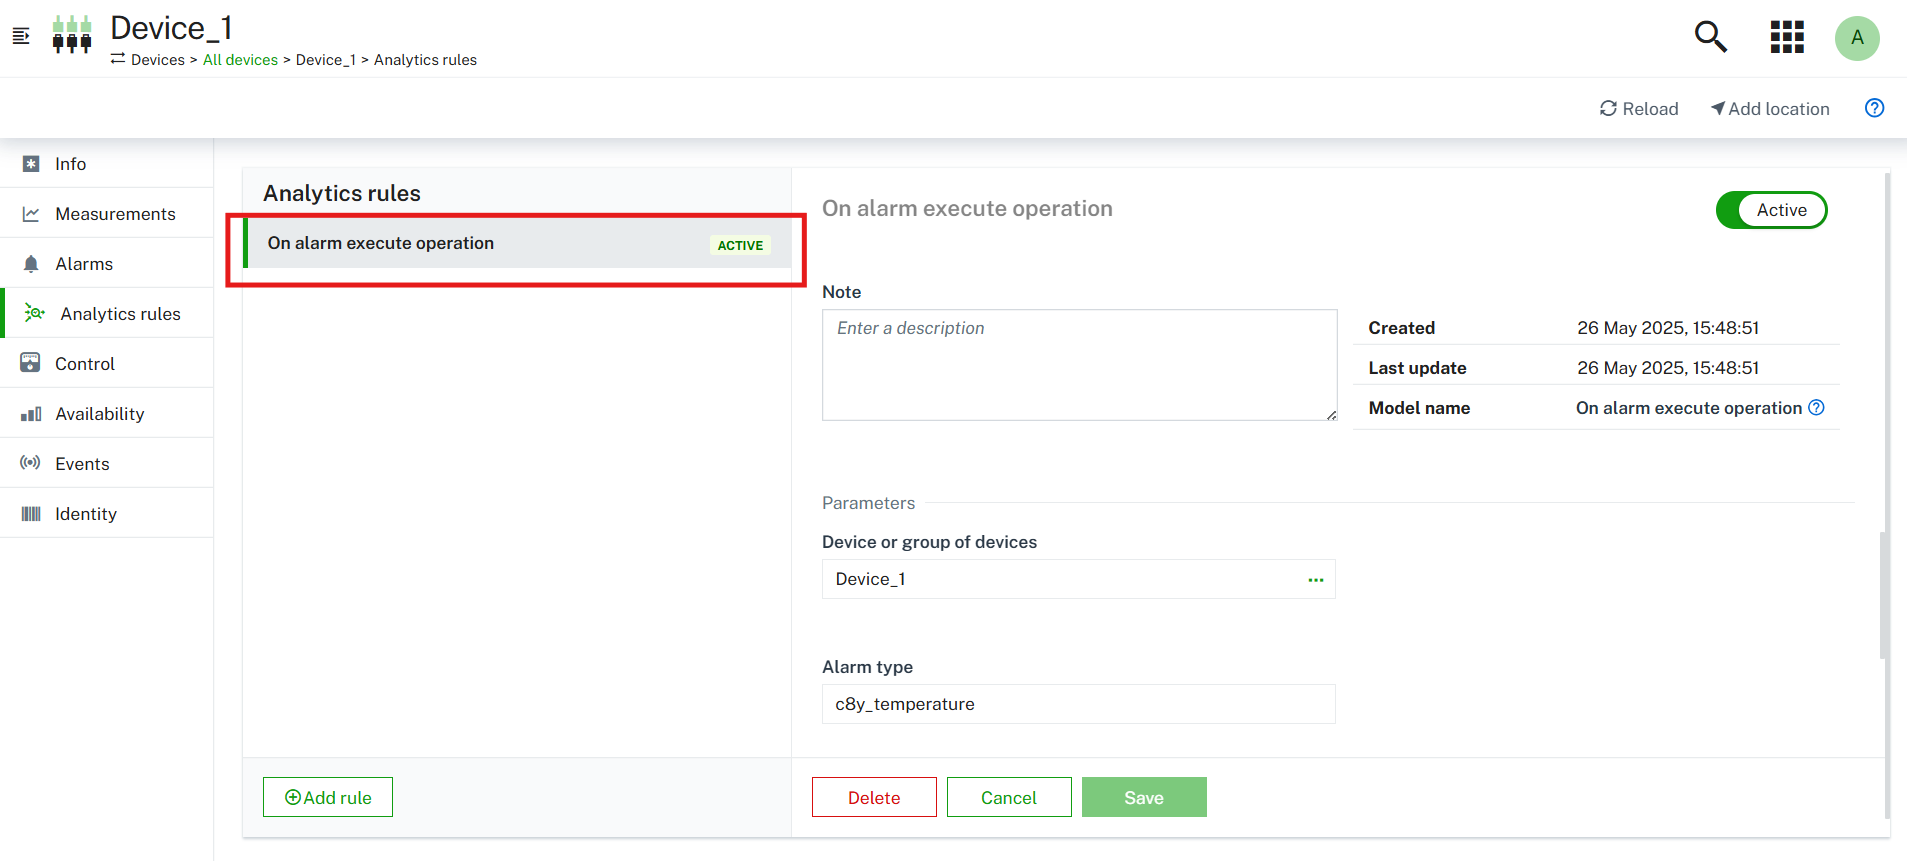
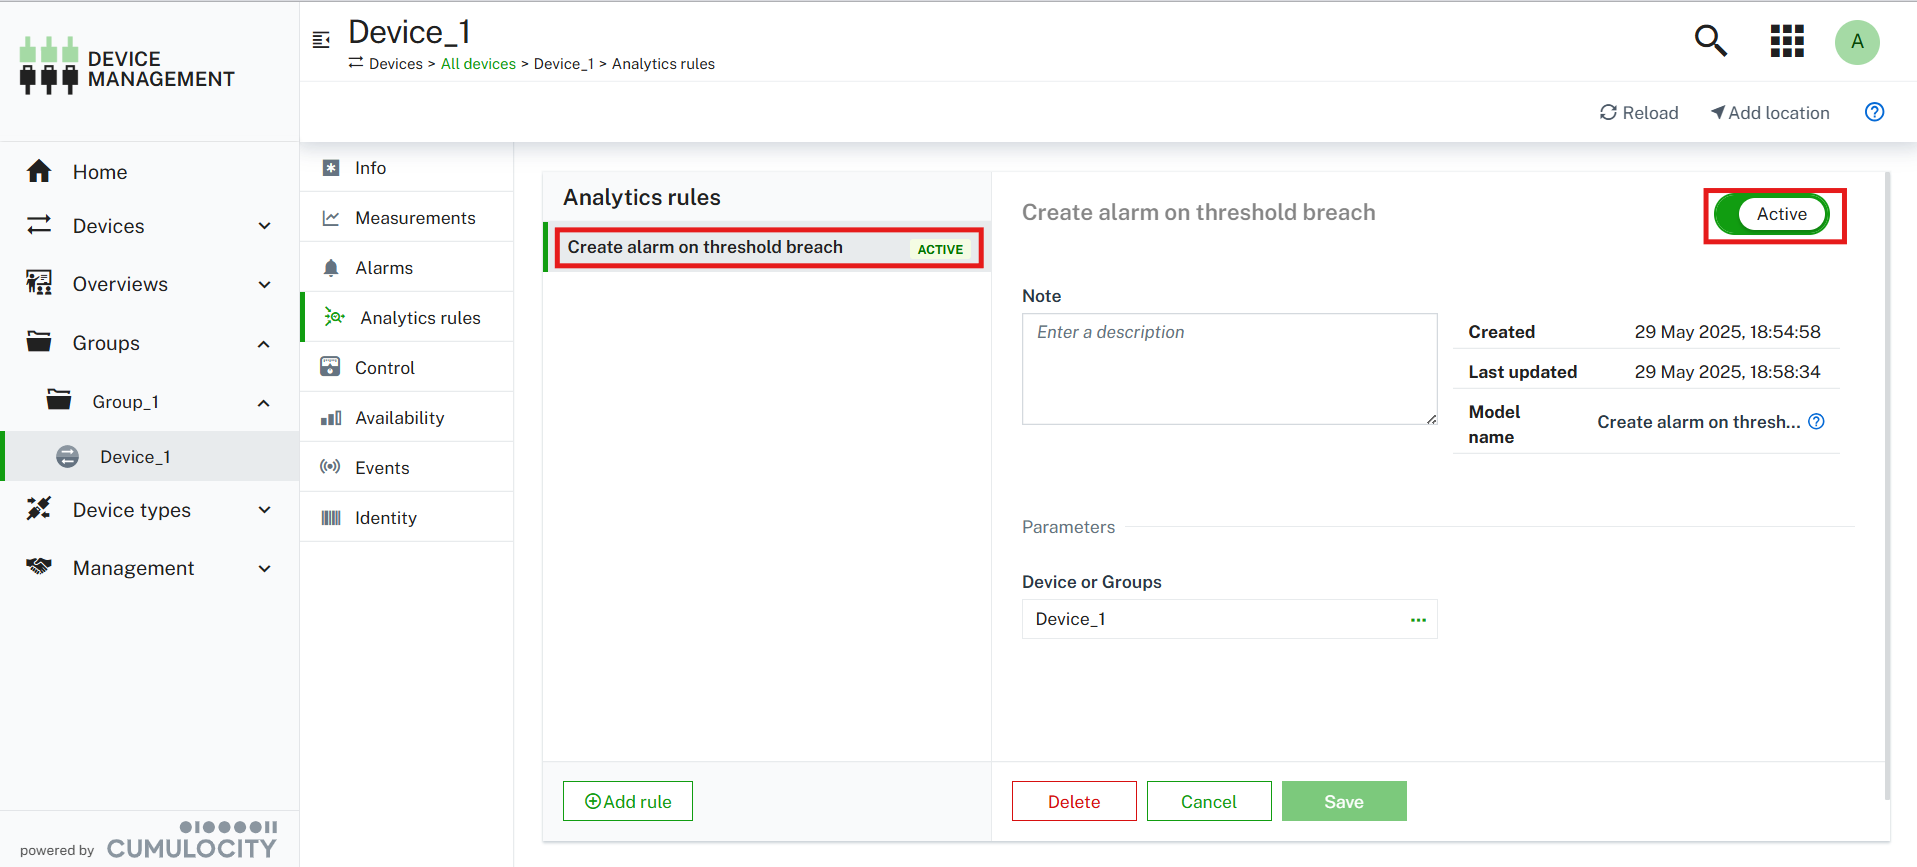
added docs for plugin from devicemanagement

diff --git a/content/streaming-analytics/analytics-rules-plugin-bundle/getting-started.md b/content/streaming-analytics/analytics-rules-plugin-bundle/getting-started.md
@@ -12,42 +12,64 @@ For more details about Analytics Builder, please refer [Analytics Builder](/stre
 ### Prerequisites
 
 Before using the Analytics Rules plugin, ensure that the following requirements are met:
-- Tenant has access to Analytics Builder application.
+- Tenant has subscribed to streaming analytics application and has access to Analytics Builder application.
 - Tenant has subscribed to host application (Device Management, Cockpit).
 - Appropriate user permissions for analytics model access and rule creation. Please refer to the 
 [Permissions](/streaming-analytics/introduction-analytics/#permissions).
 
 ### Creating your first analytics rule
 
-This topic gives the basic flow of how to create your first analytics rule using the plugin from host applications like Device Management.
+This topic gives the basic flow of how to create your first analytics rule using the plugin from host applications like Device Management. You will create a simple analytics model that will create an alarm when temperature breaches the given threshold value. The steps below require that at least one device has already been registered in {{< product-c8y-iot >}}. Preferably, this is a device which is already sending measurement values to {{< product-c8y-iot >}}. 
 
-#### Step 1: Create a Model from Existing Samples
-Navigate to **Analytics Builder** > **Samples** page
-Click the actions menu <i class="dlt-c8y-icon-menu-vertical text-muted icon-20"></i> of the On alarm execute operation and then click **Create model from sample**.
-![Create model from sample](/images/streaming-analytics/analytics-rules-plugin/create-model-from-sample.png)
-
-The new model is immediately shown in the model editor. It has the same name, description and tags as the sample.
-
-To know more about analytics model creation, refer 
-[Creating your first model](/streaming-analytics/analytics-builder/#first-steps-creating-your-first-model).
-
-#### Step 2: Template parameter setup
-
-1. To create rules for a model using the Analytics Rules plugin, proper template parameter configuration of the model is essential. In the toolbar of the model editor, click the icon  <i class="c8y-icon c8y-icon-parameters-on c8y-icon-duocolor icon-20"></i> to open the template parameter dialog.
+The model that you add will contain three blocks:
+- An input block which receives measurements from a device, groups or Assets.
+- A threshold block which verifies the measurement has breached the threshold value.
+- An alarm output block which creates an alarm object for specified device, groups or Assets.
 
 
-2. For a model to be available for rule creation in the plugin, it must have exactly one template parameter configured as follows:
+#### Step 1: Create a Model
+
+This section walks you through creating a simple temperature monitoring model. For more detailed Analytics Builder model, refer to the [Understanding models](/streaming-analytics/analytics-builder/#understanding-models).
+
+1. Open Streaming Analytics application and navigate to **Analytics Builder** > **Models** page.
+2. On the toolbar, click **New Model**, enter a model name (e.g., "Create alarm on threshold") and click **OK**.
+3. From the palette on the left, expand **Input** and drag the **Measurement Input** block onto the canvas. In the block parameter editor, enter the Fragment and Series as **T=>C** (this refers to temperature measurements in Celsius from your device).
+4. Expand **Calculation** and drag the **Threshold** block onto the canvas. Enter a threshold value (e.g., 90) - this is the temperature limit that will trigger an alarm.
+5. Expand **Output** and drag the **Alarm Output** block onto the canvas. In the block parameter editor, specify the Alarm Type as **c8y_Temperature**. Select the **severity** block parameter as **Major** from the dropdown list.
+6. Connect the blocks by clicking and dragging between their ports (small circles on the sides of blocks):
+   - Connect **Value** output of **Measurement Input** to **Value** input of **Threshold**
+   - Connect **Breached** output of **Threshold** to **Create Alarm** input of **Alarm Output**
+7. In the toolbar of the model editor, click the save icon <i class="dlt-c8y-icon-save icon-20"></i> to save newly created model.
+
+When completed, your model will look similar to this:
+
+![Create model for alarms](/images/streaming-analytics/analytics-rules-plugin/create-alarm-model.png)
+
+#### Step 2: Template Parameter Setup
+
+1. To create rules for a model using the Analytics Rules plugin, proper template parameter configuration of the model is essential. In the toolbar of the model editor, click the icon <i class="c8y-icon c8y-icon-parameters-on c8y-icon-duocolor icon-20"></i> to open the template parameter dialog.
+
+2. Click **New template parameter** to add a template parameter and fill in the details:
+   - Enter **Name** (e.g., "Device context").
+   - Select **Type** as "Source or Destination" from the drop-down list.
+   - Select **Restrict to** "Device". 
+   - Set **Value Selection** to "From Context".
+
+![Template parameter with From Context](/images/streaming-analytics/analytics-rules-plugin/template-parameter.png)
+
+3. Click **OK** to save and close the template parameter changes.
+
+
+For a model to be available for rule creation in the plugin, it must have exactly one template parameter configured as follows:
 
 | Property | Value |
 |----------|-------|
 | Type | Source or Destination |
 | Value Selection | From Context |
 
-
 - The template parameter **Type** must specifically be "Source or Destination".
-- When you select "Source or Destination" type, specify the context restrictions: Device, Groups, or both (multi-selectable).
-
-![Template parameter with From Context](/images/streaming-analytics/analytics-rules-plugin/template-parameter.png)
+- When you select "Source or Destination" type, specify the context restrictions: Device, Groups, or both (multi-selectable). In our example, we selected only Device.
+- Only one template parameter per model can have "From Context" value selection.
 
 For detailed information about creating and managing template parameters in Analytics Builder, refer to the [Managing Template Parameters documentation](/streaming-analytics/analytics-builder/#managing-template-parameters).
 
@@ -55,19 +77,49 @@ For detailed information about creating and managing template parameters in Anal
 Only one template parameter per model can have "From Context" value selection.
 {{< /c8y-admon-info>}}
 
-3. Click "OK" to save and close the template parameter changes. In the toolbar of the model editor, click the save icon <i class="dlt-c8y-icon-save icon-20"></i> to save the model.
+#### Step 3: Update block parameters to use template parameter
 
-#### Step 3: Create Analytics Rule
+1. In the canvas, select the **Measurement Input** block and update the first block parameter **Input Source** from type **Value** to **Template parameter**
+   ![Select template parameter type](/images/streaming-analytics/analytics-rules-plugin/select-tp-type.png)
+   and then click on input field to select **Device context** from the dropdown.
 
-1. Navigate to **Device Management** application
-2. Go to **Devices** > **All devices** and select a device
-3. You can see the **Analytics rules** tab is embedded as one of the device details tabs. Click on the **Analytics rules** tab. You can see the empty analytics rules page.
+2. Select the **Alarm Output** block and similarly update the first block parameter **Output Destination** from type **Value** to **Template parameter** and then click on input field to select **Device context** from the dropdown.
+
+3. In the toolbar of the model editor, click the save icon <i class="dlt-c8y-icon-save icon-20"></i> to save the model.
+
+#### Step 4: Create Analytics Rule from Device management
+
+1. Navigate to **Device Management** application.
+2. Go to **Devices** > **All devices** and select a device.
+3. Click on the **Analytics rules** tab (embedded as one of the device details tabs). You will see the empty analytics rules page.
    ![Analytics rule tab](/images/streaming-analytics/analytics-rules-plugin/empty-analytics-rule.png)
-4. Click **Add rule**, you will get an Add analytics rule dialog box where you can select your configured model to instantiate a rule for the model. Select the model and click "OK".
+4. Click **Add rule** to open the Add analytics rule dialog box. Select your configured model and click **OK**.
    ![Add rule for the selected model](/images/streaming-analytics/analytics-rules-plugin/add-rule-for-selected-model.png)
-5. Once a model is selected for adding rule, the details of the rule parameters are displayed, where you can update the rule and deploy it. Configure the rule details and click **Save** to save the rule. To deploy the rule, fill the mandatory template parameters field like alarm type (e.g., c8y_Temperature) and click inactive/active.
-   ![Deploy rule](/images/streaming-analytics/analytics-rules-plugin/deploy-rule.png)
-6. Once a model is saved or deployed, it gets added to the Analytics rules list.
+5. Configure the rule parameters:
+   - Update the rule name if needed.
+   - Click **Save** to save the rule, or toggle to **Active** to save and deploy immediately.
+6. Your rule now appears in the Analytics rules list, showing it's status (Active/Inactive).
    ![Analytics rules list](/images/streaming-analytics/analytics-rules-plugin/analytics-rules-list.png)
 
-Your have created and deployed your first analytics rule!
+**Congratulations!** You have successfully created and deployed your first analytics rule using the Analytics Rules plugin.
+
+### Creating Analytics Rule for Existing Samples
+
+You can also create analytics rules using pre-built sample models from Analytics Builder. The process is similar to creating from scratch but faster since the model logic is already defined.
+
+#### Step 1: Create Model from Sample
+1. Navigate to **Analytics Builder** > **Samples** page.
+2. Click the actions menu <i class="dlt-c8y-icon-menu-vertical text-muted icon-20"></i> of your desired sample (e.g., "On alarm execute operation") and select **Create model from sample**
+   ![Create model from sample](/images/streaming-analytics/analytics-rules-plugin/create-model-from-sample.png)
+3. The model editor opens with the sample model ready for use.
+
+#### Step 2: Configure Template Parameters
+1. Click the template parameter icon <i class="c8y-icon c8y-icon-parameters-on c8y-icon-duocolor icon-20"></i> in the toolbar.
+2. Ensure one template parameter is configured with:
+   - **Type**: Source or Destination
+   - **Value Selection**: From Context
+   - **Restrict to**: Device, Groups, or Assets as needed
+3. In the toolbar of the model editor, click the save icon <i class="dlt-c8y-icon-save icon-20"></i> to save the model.
+
+#### Step 3: Create Rule in Device Management
+Follow the same steps as described in [Step 4: Create Analytics Rule from Device management](#step-4-create-analytics-rule-from-device-management) above.
